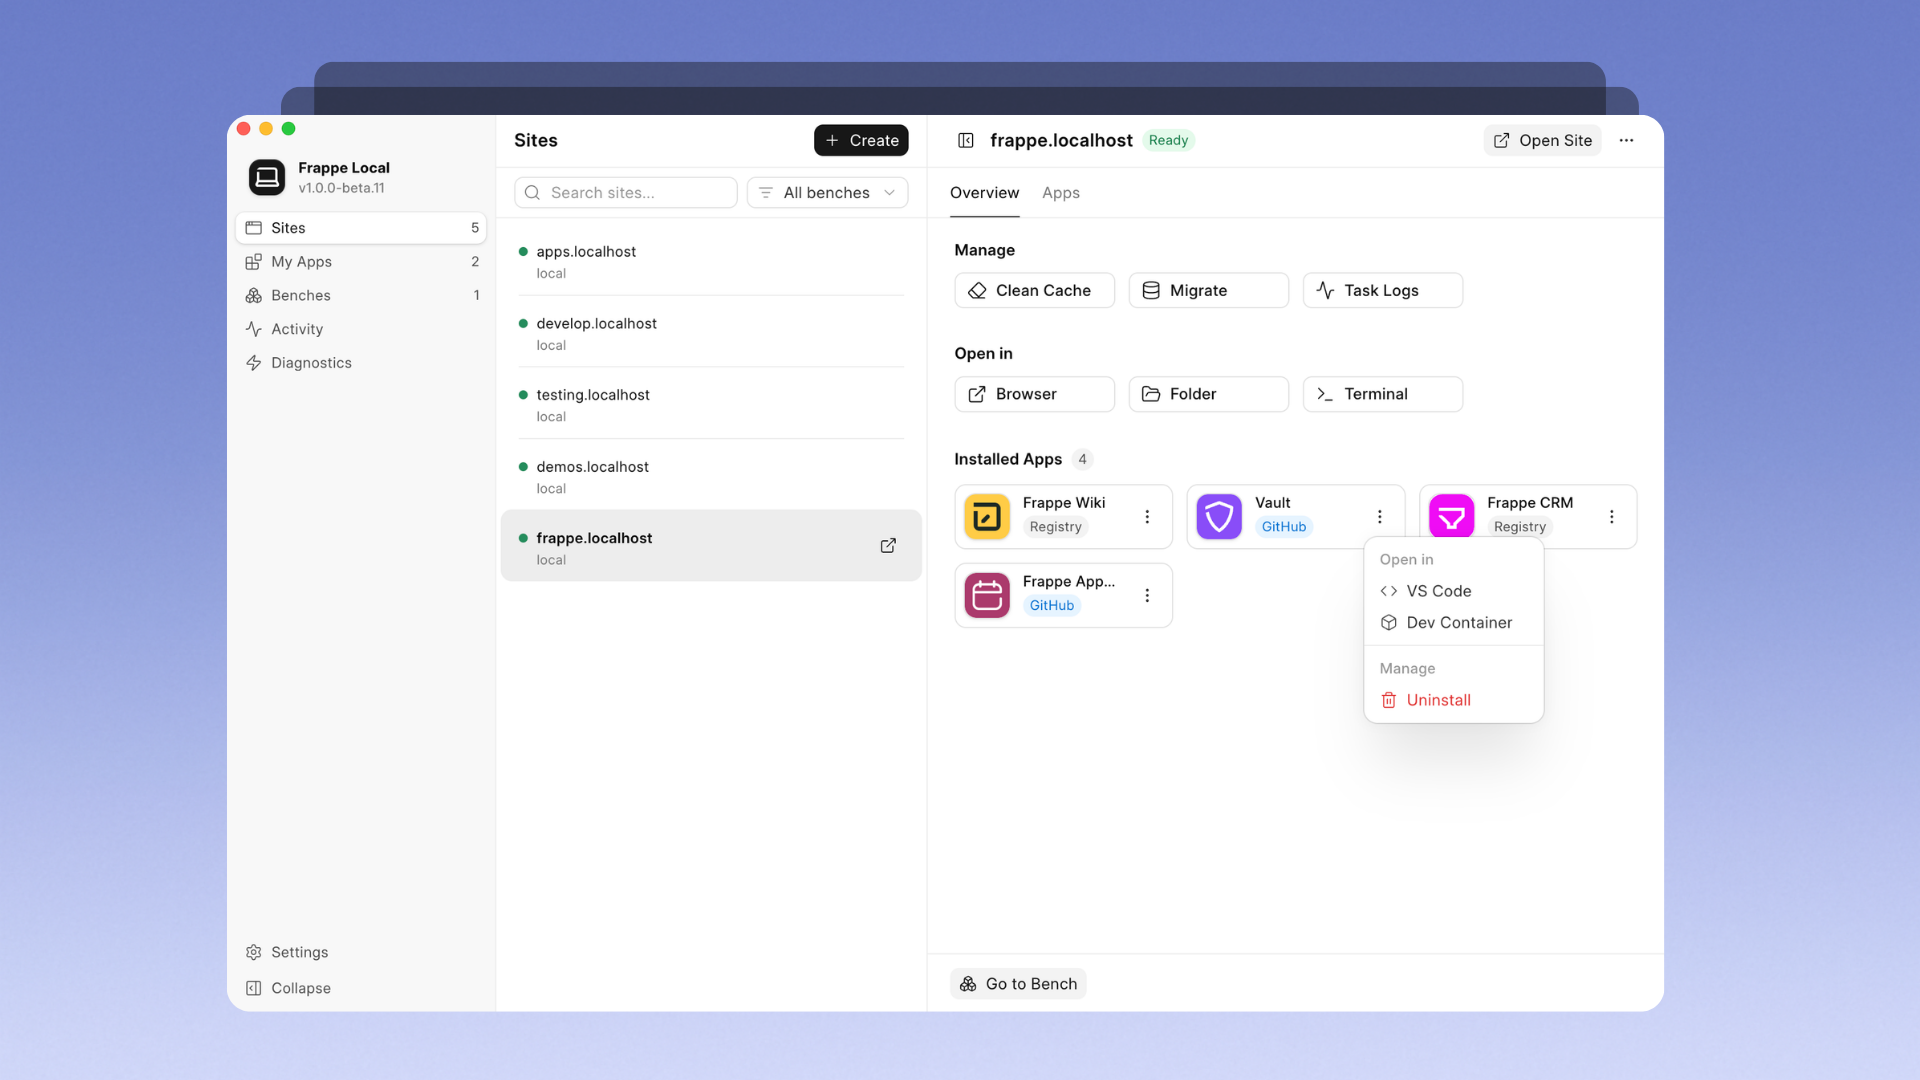
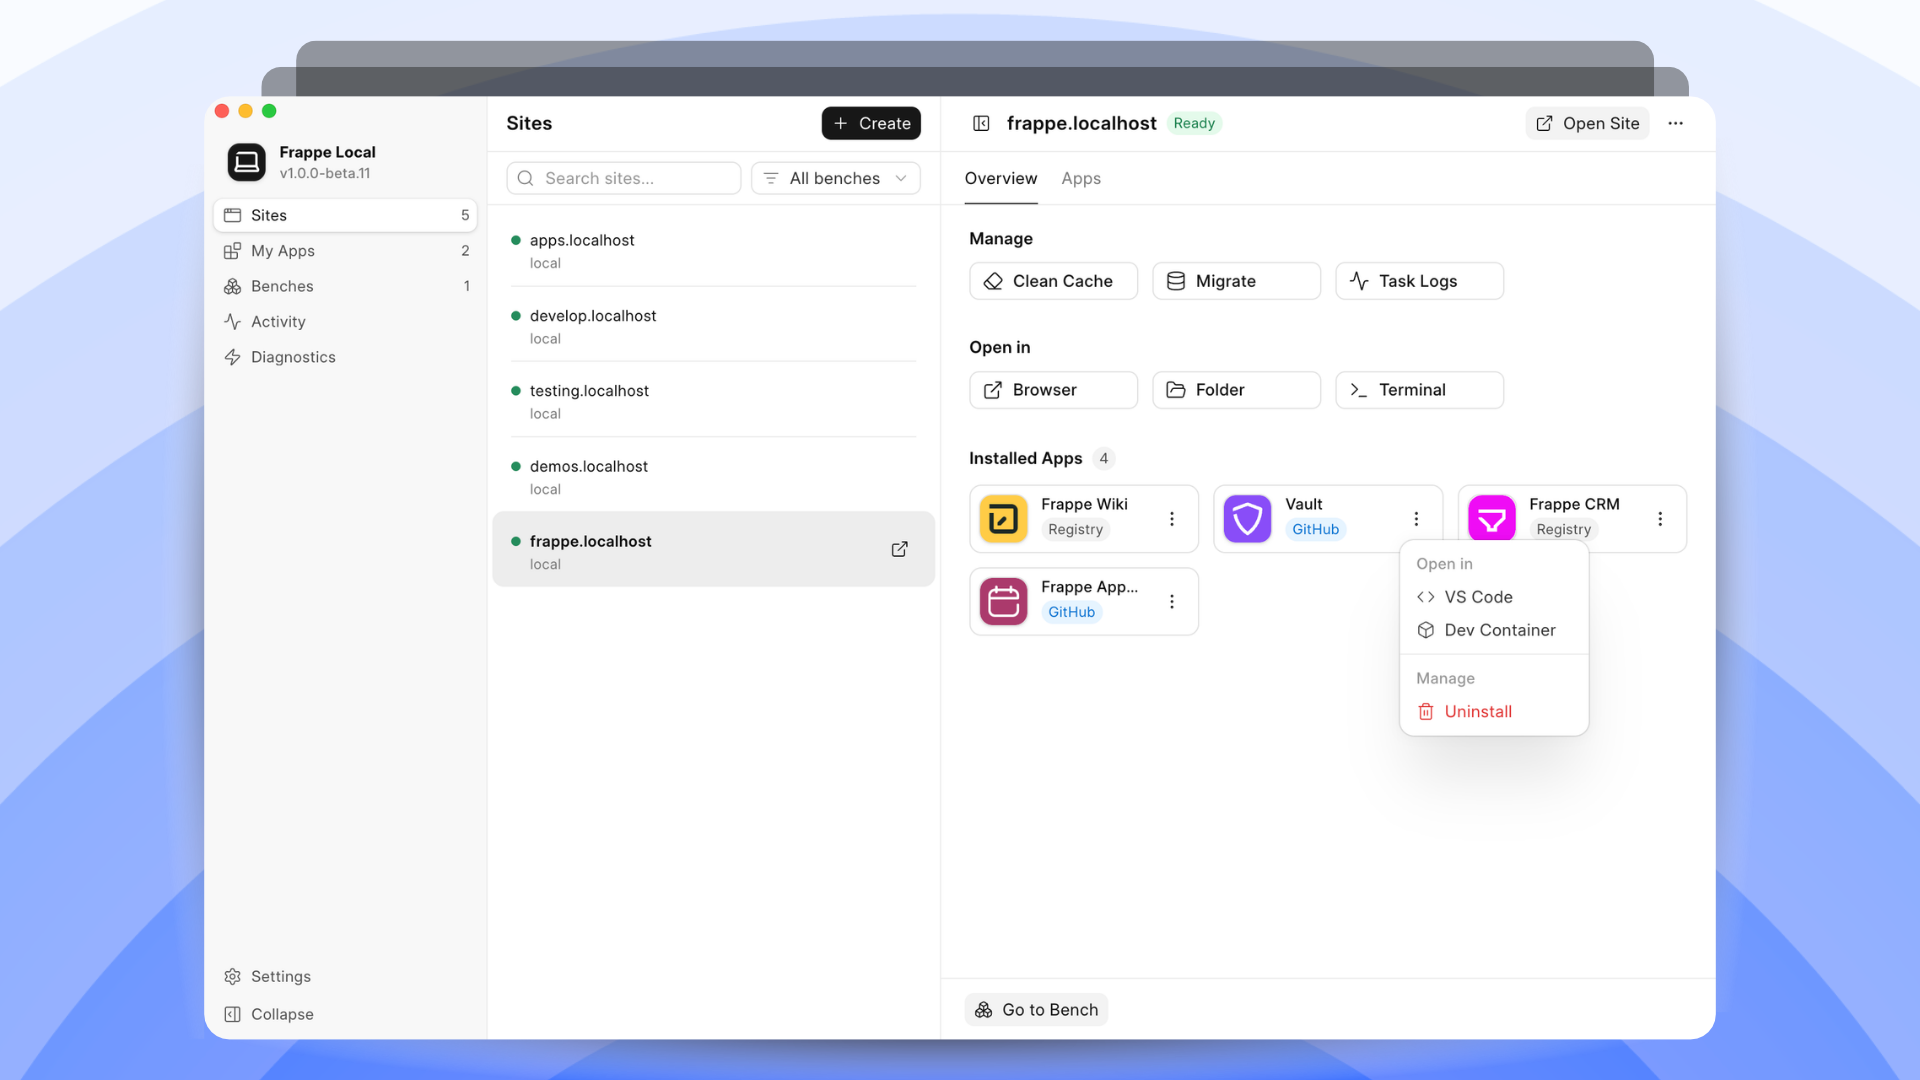
chore: update branding assets

diff --git a/README.md b/README.md
@@ -1,4 +1,4 @@
-<p align="center"><img width="160" src=".github/assets/logo.svg"></p>
+<p align="center"><img height="50" src=".github/assets/logo.svg"></p>
 
 <img src=".github/assets/banner.png" />
 
